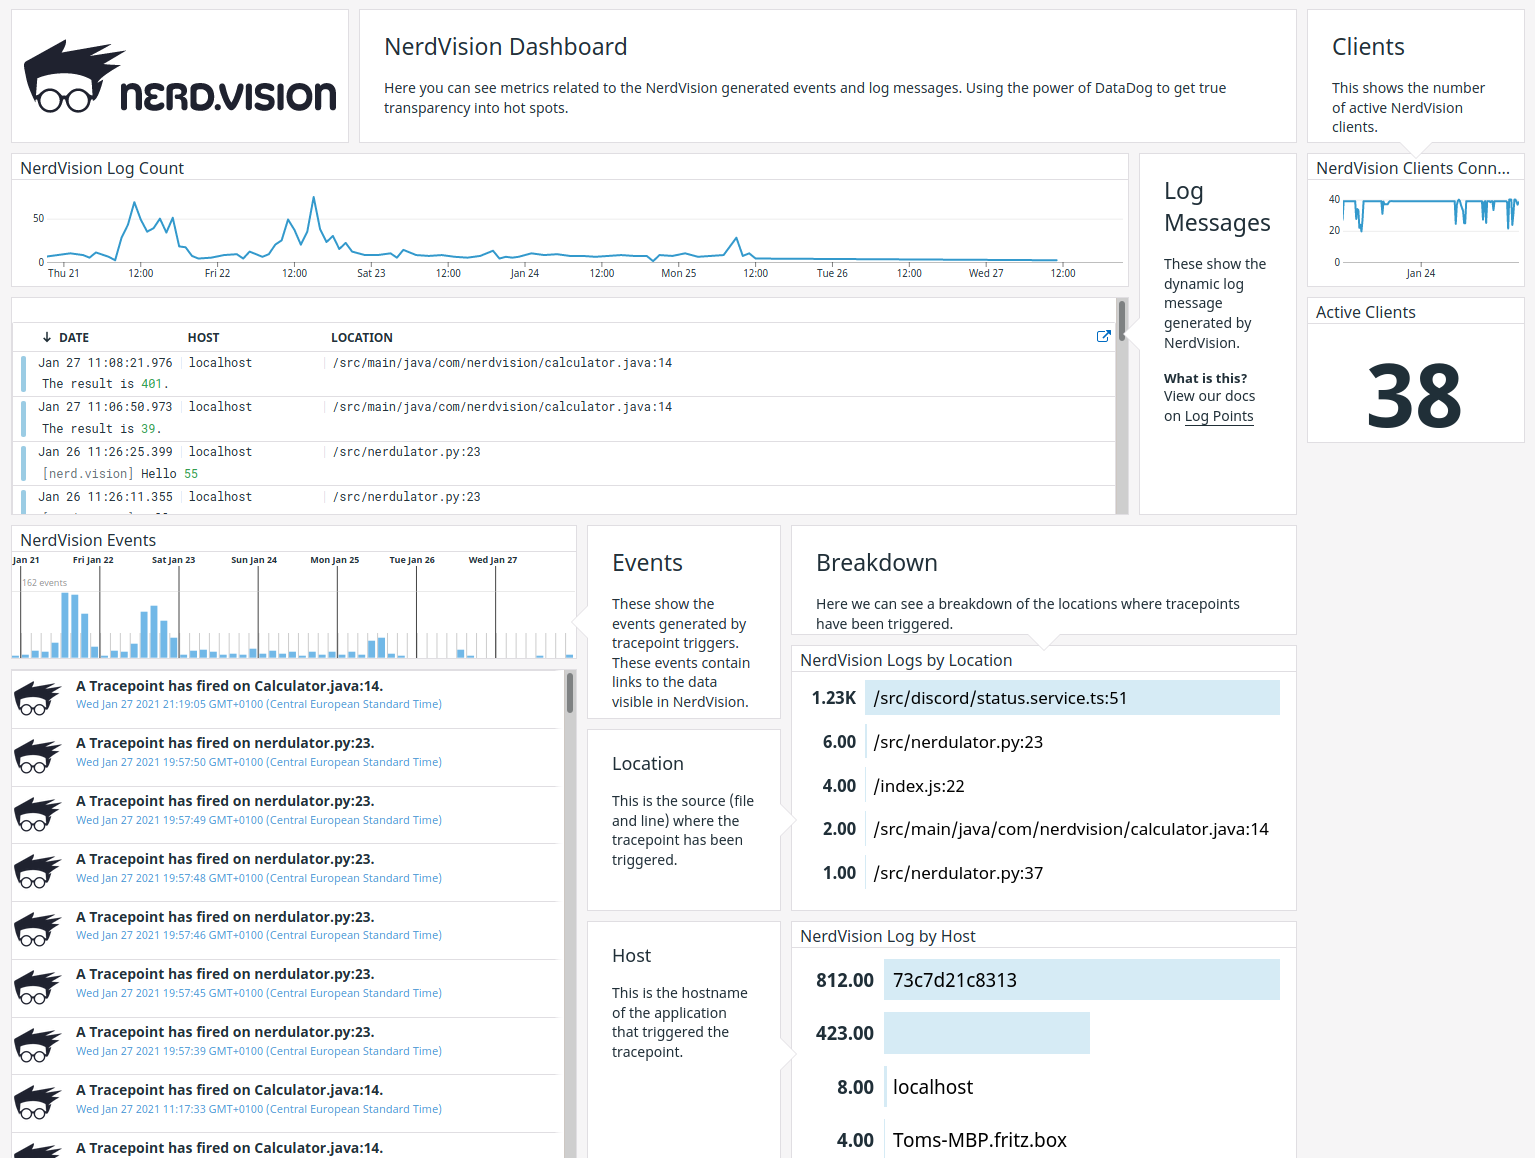
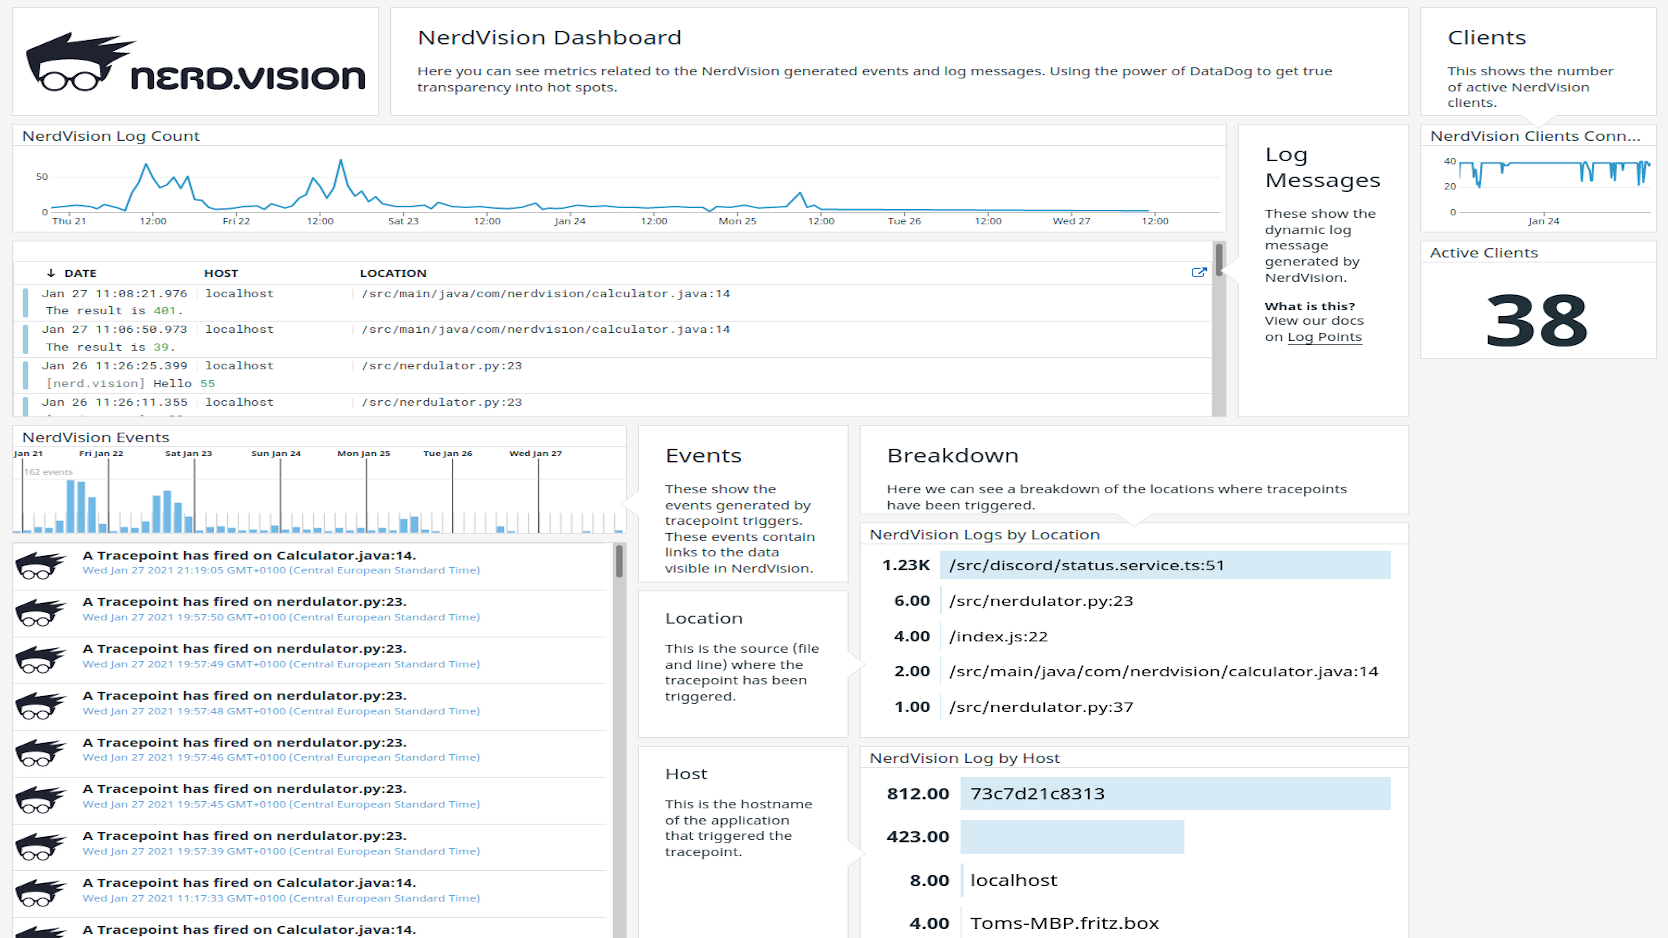
[nerd.vision] add images for new ui media gallery (#194)
* [nerd.vision] add images for new ui

* [nerd.vision] updated manifest file

* Apply suggestions from code review

* [nerd.vision] removed images from readme

* [nerd.vision] update unit label for billing

* Apply suggestions from code review

* [nerd.vision] update images to 16:9

diff --git a/nerdvision/README.md b/nerdvision/README.md
@@ -4,8 +4,6 @@
 
 ### What is NerdVision?
 
-![nerdvision](images/screenshot.png)
-
 NerdVision is a live debugging platform that allows you to gather deep insight into your application at any time. NerdVision
 allows you to install tracepoints into your application to collect data about the state of your applications without restarting or
 changing the code.
@@ -23,22 +21,16 @@ context to include data that are most important to the issue or are not part of 
 The Datadog dashboard gives you the insight you need to see where in your code the tracepoints are being triggered. Allowing you to
 identify hotspots of debug activity.
 
-![datadog](images/screenshot_datadog.png)
-
 ### Events
 
 Each tracepoint that is triggered will be sent to Datadog as an event, containing the appropriate tags, and a link to view the
 data in NerdVision. Tracepoints allow you to gather the full stack and variables that are active at the frame the tracepoint is
 triggered.
 
-![datadog](images/datadog_event.png)
-
 ### Logs
 
 With dynamic logging you can inject new log messages at any point of you code to add that extra data you missed. Each log message
 that is triggered will be synced with Datadog as soon as it has been processed by NerdVision.
-
-![datadog](images/datadog_log.png)
 
 ### Metrics
 
